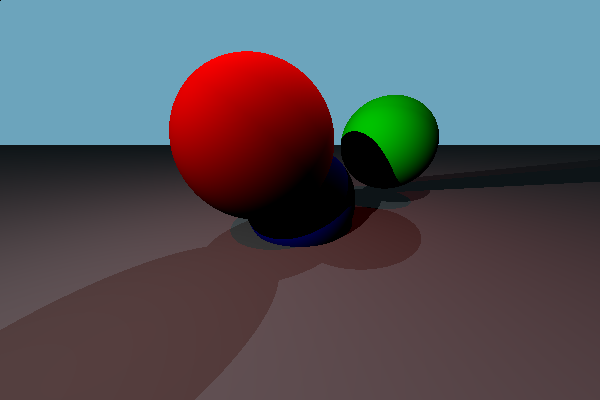
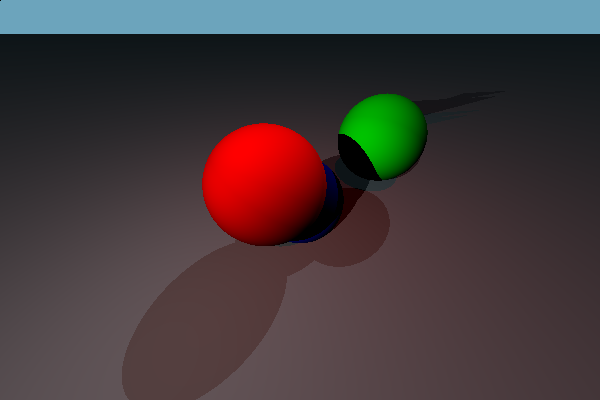
Added rendering of triangles

diff --git a/src/components/triangle.rs b/src/components/triangle.rs
@@ -1,36 +1,36 @@
 use super::*;
 
-#[derive(Copy,Clone)]
+#[derive(Copy, Clone)]
 pub struct Triangle {
-    pub coordinates : [Vector3<f32>;3],
-    pub color : Color,
-    pub normal : Vector3<f32>,
-    pub albedo : f32
+    pub coordinates: [Vector3<f32>; 3],
+    pub color: Color,
+    pub normal: Vector3<f32>,
+    pub albedo: f32,
 }
 
 impl Triangle {
-    pub fn new(coord : [Vector3<f32>;3], col : Color, albedo : f32) -> Triangle {
+    pub fn new(coord: [Vector3<f32>; 3], col: Color, albedo: f32) -> Triangle {
         Triangle {
-            coordinates : coord,
-            color : col,
-            normal : Triangle::calculate_normal(coord),
-            albedo : albedo
+            coordinates: coord,
+            color: col,
+            normal: Triangle::calculate_normal(coord),
+            albedo: albedo,
         }
     }
     pub fn new_defined() -> Triangle {
         let coord = [
-            Vector3::new(0.0,0.0,0.0),
-            Vector3::new(0.0,1.0,0.0),
-            Vector3::new(3.0,1.0,3.0)
+            Vector3::new(0.0, 2.0, 0.0),
+            Vector3::new(0.0, 5.0, 0.0),
+            Vector3::new(5.0, 5.0, 5.0),
         ];
         Triangle {
-            coordinates : coord,
-            color : Colors::YELLOW.value(),
-            normal : Triangle::calculate_normal(coord),
-            albedo : 1.0
+            coordinates: coord,
+            color: Colors::YELLOW.value(),
+            normal: Triangle::calculate_normal(coord),
+            albedo: 1.0,
         }
     }
-    fn calculate_normal(coord : [Vector3<f32>;3]) -> Vector3<f32> {
+    fn calculate_normal(coord: [Vector3<f32>; 3]) -> Vector3<f32> {
         let x = coord[1] - coord[0];
         let y = coord[2] - coord[0];
         x.cross(&y)
@@ -50,49 +50,31 @@ impl Intersectable for Triangle {
         }
     }
     fn get_position(&self) -> Vector3<f32> {
-        self.coordinates
-            .to_vec()
-            .iter()
-            .sum()
+        self.coordinates.to_vec().iter().sum()
     }
     fn intersect(&self, ray: &Ray) -> Option<PointInfo> {
-        
         let normal = &self.normal;
         let denom = normal.dot(&ray.direction);
         if denom > 1e-6 {
             let d = self.normal.dot(&self.coordinates[0]);
             let t = -(self.normal.dot(&ray.origin) + d) / self.normal.dot(&ray.direction);
-            let intersection = ray.origin + t * ray.direction;
-            let inside = {
-                let edge0 = self.coordinates[1] - self.coordinates[0];
-                let edge1 = self.coordinates[2] - self.coordinates[0];
-                // let edge2 = self.coordinates[0] - self.coordinates[2];
-                let c0 = intersection - self.coordinates[0];
-                let c1 = intersection - self.coordinates[1];
-                // let c2 = intersection - self.coordinates[2];
-                if 
-                    self.normal.dot(&(edge0.cross(&c0))) >0.0 &&
-                    self.normal.dot(&(edge1.cross(&c1))) >0.0 {
-                        true
-                    }
-                    else {
-                        false
-                    }
-            };
-            if t >= 0.0 && inside {
-                return Some(
+            let intersect = ray.origin + t * ray.direction;
+            if check_inside_triangle(intersect,self.coordinates) {
+                Some(
                     PointInfo {
                         distance : t,
-                        normal : -self.normal,
-                        intersection : intersection
+                        intersection : intersect,
+                        normal : -self.normal
                     }
-                );
+                )
+            } else {
+                None
             }
+        } else {
+            None
         }
-        None
-    
-        
-        
+
+       
     }
     fn get_color(&self) -> Color {
         self.color
@@ -100,4 +82,18 @@ impl Intersectable for Triangle {
     fn get_albedo(&self) -> f32 {
         self.albedo
     }
+}
+
+
+fn check_inside_triangle(
+    point: Vector3<f32>, 
+    triangle: [Vector3<f32>; 3]) -> bool {
+    same_side(point,triangle[0],triangle[1],triangle[2]) &&
+        same_side(point,triangle[1],triangle[0],triangle[2]) &&
+        same_side(point,triangle[2],triangle[0],triangle[1])     
+}
+fn same_side(p1 : Vector3<f32>,p2 : Vector3<f32>,a : Vector3<f32>,b : Vector3<f32>) -> bool {
+    let cp1 = (b-a).cross(&(p1-a));
+    let cp2 = (b-a).cross(&(p2-a));
+    cp1.dot(&cp2) >= 0.0
 }

diff --git a/src/main.rs b/src/main.rs
@@ -21,7 +21,14 @@ fn render_multiple_scenes() {
         Element::Sphere(Sphere::new(0f32, 1f32, -4f32, Colors::RED, 1.0)),
         Element::Sphere(Sphere::new(1f32, 1f32, -1f32, Colors::GREEN, 1.0)),
         Element::Plane(Plane::new()),
-        Element::Triangle(Triangle::new_defined())
+        Element::Triangle(Triangle::new_defined()),
+        Element::Triangle(Triangle::new(
+            [Vector3::new(1.0, 4.0, 1.0),
+            Vector3::new(3.0, 6.0, 3.0),
+            Vector3::new(6.0, 6.0, 6.0)],
+            Colors::BLUE.value(),
+            0.8
+        ))
     ];
     let lights = [
         Light::DirectionalLight(DirectionalLight {
@@ -41,9 +48,9 @@ fn render_multiple_scenes() {
         }),
     ];
     threads.push(thread::spawn(move || {
-        let camerapos = Vector3::new(8f32, 2f32, -5f32);
+        let camerapos = Vector3::new(-8f32, 3f32, -5f32);
         let result = render_scene(
-            &Scene::new(camerapos, &elements[0].get_position() - camerapos),
+            &Scene::new(camerapos, &elements[5].get_position() - camerapos),
             &elements,
             &lights,
         );
@@ -51,7 +58,7 @@ fn render_multiple_scenes() {
         result.save("render1.png").unwrap();
     }));
     threads.push(thread::spawn(move || {
-        let camerapos = Vector3::new(2f32, 1f32, -6f32);
+        let camerapos = Vector3::new(2f32, 3f32, -6f32);
         let result = render_scene(
             &Scene::new(camerapos, &elements[0].get_position() - camerapos),
             &elements,
@@ -183,7 +190,7 @@ fn render_scene(scene: &Scene, elements: &[Element], lights: &[Light]) -> Dynami
     image = scene.fire_rays(&mut image, elements, lights);
     image
 }
-
+#[allow(dead_code)]
 fn render_quarter_scene(
     scene: &Scene,
     elements: &[Element],

diff --git a/src/components/scene.rs b/src/components/scene.rs
@@ -129,7 +129,7 @@ impl Scene {
                                     // let final_color = light.color.clone() - absorbed;
                                     let shadowed = self.is_shadowed(
                                         &Ray {
-                                            origin: d.intersection + 1e-5 * d.normal,
+                                            origin: d.intersection + 1e-4 * d.normal,
                                             direction: -light.get_direction(element).normalize(),
                                         },
                                         elements,
